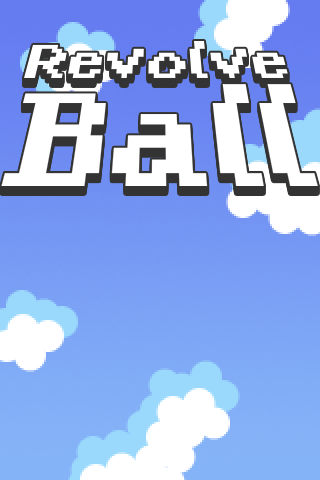
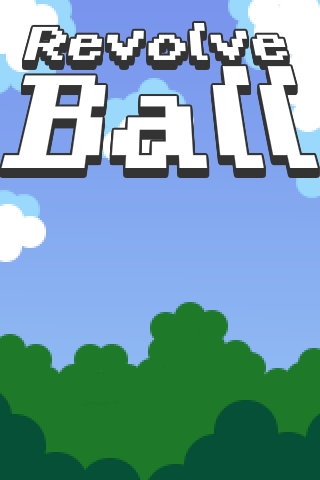
Updated title screen background

diff --git a/Classes/TitleScene.mm b/Classes/TitleScene.mm
@@ -30,42 +30,36 @@
 		
 		CGSize windowSize = [CCDirector sharedDirector].winSize;
 		
-		// Add moving background
-		CCSprite *background = [CCSprite spriteWithFile:@"title-screen-background.png"];
+		// Add background
+		NSMutableString *backgroundFile = [NSMutableString stringWithFormat:@"title-background"];
+		
+		// Check if running on iPad
+		if ([GameData sharedGameData].isTablet) [backgroundFile appendString:@"-hd"];
+		
+		// Append file extension
+		[backgroundFile appendString:@".png"];
+		
+		CCSprite *background = [CCSprite spriteWithFile:backgroundFile];
 		[background setPosition:ccp(windowSize.width / 2, windowSize.height / 2)];
 		[self addChild:background z:0];
-		
-		// Add game logo
-		CCSprite *logo = [CCSprite spriteWithFile:@"logo.png"];
-		[logo setPosition:ccp(160, 370)];
-		[self addChild:logo z:1];
 		
 		// Add button which takes us to game scene
 		CCMenuItem *startButton = [CCMenuItemImage itemFromNormalImage:@"start-button.png" selectedImage:@"start-button.png" target:self selector:@selector(startGame:)];
 		CCMenu *titleMenu = [CCMenu menuWithItems:startButton, nil];
-		[titleMenu setPosition:ccp(160, 50)];
+		[titleMenu setPosition:ccp(windowSize.width / 2, windowSize.height / 10)];
 		[self addChild:titleMenu z:1];
 		
 		// Check if running on iPad
 		if ([GameData sharedGameData].isTablet)
-		{
-			[background setScale:2.0];
-			[background setPosition:ccp(windowSize.width / 2, windowSize.height / 2)];
-			
-			[logo setScale:2.0];
-			[logo setPosition:ccp(320, 740)];
-			
 			[startButton setScale:2.0];
-			[startButton setPosition:ccp(320, 100)];
-		}
 		
 		// Run animation which moves background
-		[background runAction:[CCRepeatForever actionWithAction:[CCSequence actions:
-																 [CCDelayTime actionWithDuration:1.0],
-																 [CCMoveTo actionWithDuration:15.0 position:ccp(0, 240)], 
-																 [CCDelayTime actionWithDuration:1.0],
-																 [CCMoveTo actionWithDuration:15.0 position:ccp(320, 240)], 
-																 nil]]];
+//		[background runAction:[CCRepeatForever actionWithAction:[CCSequence actions:
+//																 [CCDelayTime actionWithDuration:1.0],
+//																 [CCMoveTo actionWithDuration:15.0 position:ccp(0, 240)], 
+//																 [CCDelayTime actionWithDuration:1.0],
+//																 [CCMoveTo actionWithDuration:15.0 position:ccp(320, 240)], 
+//																 nil]]];
 	}
 	return self;
 }
